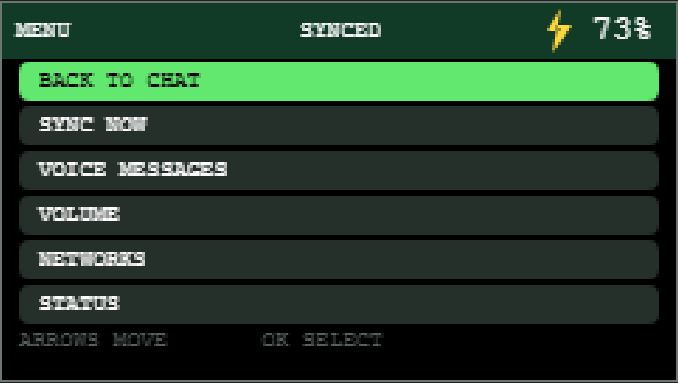
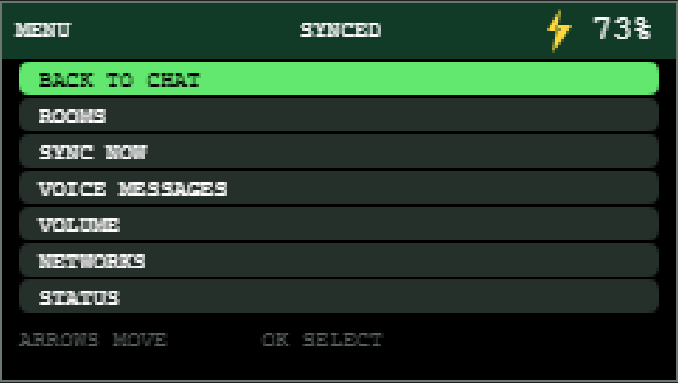
Generalize SupaChat group administration

Changed region(s): [[0.031, 0.2298, 0.9912, 0.8616]]

diff --git a/server/web/app.js b/server/web/app.js
@@ -21,6 +21,13 @@ const inviteGenerate = document.querySelector('#invite-generate');
 const roomSelect = document.querySelector('#room-select');
 const welcomeZone = document.querySelector('#welcome-zone');
 const welcomeClose = document.querySelector('#welcome-close');
+const newGroupForm = document.querySelector('#new-group-form');
+const groupState = document.querySelector('#group-state');
+const manageRoom = document.querySelector('#manage-room');
+const groupMembers = document.querySelector('#group-members');
+const existingUser = document.querySelector('#existing-user');
+const addMember = document.querySelector('#add-member');
+let adminGroups = []; let adminUsers = [];
 const welcomeRequested = new URLSearchParams(location.search).get('welcome') === '1';
 let messages = [];
 let currentUser = null;
@@ -246,9 +253,25 @@ function dismissWelcome() {
 }
 welcomeClose.addEventListener('click', dismissWelcome);
 welcomeZone.addEventListener('cancel', (event) => { event.preventDefault(); dismissWelcome(); });
-adminOpen.addEventListener('click', () => adminZone.showModal());
+async function loadAdminGroups(selected = manageRoom.value) {
+  const data = await api('api/admin/groups'); adminGroups = data.groups; adminUsers = data.users;
+  manageRoom.innerHTML = adminGroups.map((group) => `<option value="${escapeHtml(group.id)}">${escapeHtml(group.name)} (${group.member_count})</option>`).join('');
+  manageRoom.value = adminGroups.some((group) => group.id === selected) ? selected : adminGroups[0]?.id || '';
+  const group = adminGroups.find((item) => item.id === manageRoom.value);
+  groupMembers.innerHTML = group?.members.length ? group.members.map((member) => `<div class="group-member"><span>${escapeHtml(member.display_name)} <small>${escapeHtml(member.kind)}</small></span><button type="button" data-remove-user="${escapeHtml(member.id)}" ${member.id === currentUser.id ? 'disabled title="You cannot remove yourself"' : ''}>Remove</button></div>`).join('') : '<p class="empty-inline">No members.</p>';
+  const memberIds = new Set(group?.members.map((member) => member.id));
+  existingUser.innerHTML = adminUsers.filter((item) => !memberIds.has(item.id)).map((item) => `<option value="${escapeHtml(item.id)}">${escapeHtml(item.display_name)}</option>`).join('');
+  addMember.disabled = !existingUser.value;
+  inviteForm.elements.room_id.innerHTML = adminGroups.map((item) => `<option value="${escapeHtml(item.id)}">${escapeHtml(item.name)}</option>`).join('');
+  if (group) inviteForm.elements.room_id.value = group.id;
+}
+adminOpen.addEventListener('click', async () => { adminZone.showModal(); try { await loadAdminGroups(currentRoom); } catch { groupState.textContent = 'Could not load groups.'; } });
 adminClose.addEventListener('click', () => adminZone.close());
 adminZone.addEventListener('click', (event) => { if (event.target === adminZone) adminZone.close(); });
+manageRoom.addEventListener('change', () => loadAdminGroups(manageRoom.value));
+newGroupForm.addEventListener('submit', async (event) => { event.preventDefault(); groupState.textContent = 'Creating…'; try { const result = await api('api/admin/groups', {method:'POST',body:JSON.stringify({name:new FormData(newGroupForm).get('name')})}); newGroupForm.reset(); groupState.textContent = `${result.group.name} created.`; await loadAdminGroups(result.group.id); await refresh(); } catch(error) { groupState.textContent = error.message === 'group_exists' ? 'That group already exists.' : 'Could not create group.'; } });
+addMember.addEventListener('click', async () => { if (!existingUser.value) return; await api(`api/admin/groups/${encodeURIComponent(manageRoom.value)}/members`, {method:'POST',body:JSON.stringify({user_id:existingUser.value})}); await loadAdminGroups(manageRoom.value); });
+groupMembers.addEventListener('click', async (event) => { const button = event.target.closest('[data-remove-user]'); if (!button) return; button.disabled = true; try { await api(`api/admin/groups/${encodeURIComponent(manageRoom.value)}/members/${encodeURIComponent(button.dataset.removeUser)}`, {method:'DELETE'}); await loadAdminGroups(manageRoom.value); } catch { groupState.textContent = 'Could not remove that member.'; button.disabled = false; } });
 inviteForm.addEventListener('submit', async (event) => {
   event.preventDefault();
   const data = new FormData(inviteForm);

diff --git a/server/web/index.html b/server/web/index.html
@@ -6,6 +6,7 @@
   <title>SupaChat — Family</title>
   <link rel="stylesheet" href="app.css">
   <link rel="stylesheet" href="controls.css">
+  <link rel="stylesheet" href="admin.css">
 </head>
 <body>
   <div class="app-shell" data-vi-container="true">
@@ -34,12 +35,14 @@
       </aside>
     </div>
     <dialog id="admin-zone" class="admin-zone" aria-labelledby="admin-title">
-      <form id="invite-form" class="admin-card" data-vi-container="true">
+      <section class="admin-card" data-vi-container="true">
         <div class="admin-heading">
-          <div><p class="eyebrow">ADMIN ZONE</p><h2 id="admin-title">Invite someone</h2><p>Generate a one-use sign-up link. It expires in seven days.</p></div>
+          <div><p class="eyebrow">ADMIN ZONE</p><h2 id="admin-title">Groups</h2><p>Create rooms, manage their members, and invite someone directly into one.</p></div>
           <button id="admin-close" class="admin-close" type="button" aria-label="Close admin zone">×</button>
         </div>
-        <label for="invite-name">Name</label>
+        <form id="new-group-form" class="admin-section"><h3>New group</h3><div class="admin-inline"><input id="new-group-name" name="name" placeholder="Sunday Crew" required maxlength="60"><button type="submit">Create</button></div><p id="group-state" class="invite-state" role="status"></p></form>
+        <div class="admin-section"><h3>Manage group</h3><label for="manage-room">Group</label><select id="manage-room"></select><div id="group-members" class="group-members"></div><label for="existing-user">Add existing user</label><div class="admin-inline"><select id="existing-user"></select><button id="add-member" type="button">Add</button></div></div>
+        <form id="invite-form" class="admin-section"><h3>Invite new user</h3><p>One-use link · expires in seven days.</p><label for="invite-name">Name</label>
         <input id="invite-name" name="display_name" autocomplete="name" placeholder="Aunt Sarah" required maxlength="80">
         <label for="invite-username">Username</label>
         <input id="invite-username" name="username" autocomplete="username" placeholder="sarah" required maxlength="80">
@@ -53,8 +56,8 @@
           <a id="invite-link" href="#" target="_blank" rel="noreferrer"></a>
           <button id="invite-share" type="button">Share invite</button>
         </div>
-        <button id="invite-generate" class="invite-generate" type="submit">Generate one-time link</button>
-      </form>
+        <button id="invite-generate" class="invite-generate" type="submit">Generate one-time link</button></form>
+      </section>
     </dialog>
     <dialog id="welcome-zone" class="welcome-zone" aria-labelledby="welcome-title">
       <section class="welcome-card" data-vi-container="true">

diff --git a/server/web/admin.css b/server/web/admin.css
@@ -1,0 +1,1 @@
+.admin-card{max-height:min(760px,calc(100vh - 32px));overflow:auto}.admin-section{display:grid;gap:8px;padding:14px 0;border-top:1px solid var(--line)}.admin-section h3{margin:0}.admin-inline{display:flex;gap:8px}.admin-inline input,.admin-inline select{min-width:0;flex:1}.group-members{display:grid;gap:6px}.group-member{display:flex;align-items:center;justify-content:space-between;gap:10px;padding:8px 10px;background:#0f1411;border-radius:10px}.group-member small,.empty-inline{color:var(--muted)}.group-member button{padding:7px 10px}.admin-section input,.admin-section select{width:100%}@media(max-width:620px){.admin-card{width:calc(100vw - 20px);padding:16px}.admin-inline{align-items:stretch}.group-member{font-size:.9rem}}

diff --git a/firmware/src/main.cpp b/firmware/src/main.cpp
@@ -165,6 +165,7 @@ struct ChatLine {
   bool mine;
   bool label;
 };
+struct ChatRoom { String id; String name; };
 
 uint32_t participantColour(const String &authorId, const String &authorName = "") {
   String identity = authorId + " " + authorName; identity.toLowerCase();
@@ -174,7 +175,7 @@ uint32_t participantColour(const String &authorId, const String &authorName = ""
   return TFT_WHITE;
 }
 
-enum class ScreenMode { Chat, Menu, Volume, Walkie, Status, Networks, NetworkPassword };
+enum class ScreenMode { Chat, Menu, Rooms, Volume, Walkie, Status, Networks, NetworkPassword };
 
 Preferences preferences;
 M5Canvas uiCanvas(&M5Cardputer.Display);
@@ -182,6 +183,9 @@ WebSocketsClient walkieSocket;
 std::vector<WifiProfile> wifiProfiles;
 std::vector<ScannedNetwork> scannedNetworks;
 std::vector<ChatMessage> messages;
+std::vector<ChatRoom> rooms;
+String currentRoomId = "family";
+String currentRoomName = "Family";
 // Retained clips stream to microSD. The small fallback keeps voice usable
 // without a card while reserving heap for simultaneous HTTPS and WSS TLS.
 std::array<int16_t, kVoiceFallbackSamples> voiceSamples{};
@@ -219,6 +223,7 @@ bool localReplayActive = false;
 bool spacePttHeld = false;
 uint32_t spaceReleaseStartedAt = 0;
 bool walkieConnected = false;
+bool walkieInitialized = false;
 bool walkieGranted = false;
 bool audioPlaying = false;
 volatile bool messageNotificationPending = false;
@@ -230,6 +235,7 @@ volatile bool voiceDownloadActive = false;
 int64_t voicePlayingMessageId = 0;
 int voiceInboxSelection = 0;
 int menuSelection = 0;
+int roomSelection = 0;
 int networkSelection = 0;
 uint8_t volumeLevel = kDefaultVolumeLevel;
 int64_t lastServerId = 0;
@@ -905,6 +911,7 @@ bool uploadVoiceClip() {
   if (!http.begin(client, String(kApiBase) + "/api/voice")) return false;
   http.addHeader("Authorization", "Bearer " + deviceToken);
   http.addHeader("Content-Type", "application/octet-stream");
+  http.addHeader("X-Room-Id", currentRoomId);
   if (voiceClientId.isEmpty()) voiceClientId = nextClientId();
   http.addHeader("X-Client-Id", voiceClientId); http.addHeader("X-Sample-Rate", String(kVoiceSampleRate));
   int status = -1;
@@ -985,7 +992,7 @@ void sendQueuedMessages() {
     xSemaphoreGive(stateMutex);
     if (text.isEmpty()) continue;
     String response; int status = 0;
-    const String payload = "{\"client_id\":\"" + jsonEscape(clientId) + "\",\"body\":\"" + jsonEscape(text) + "\"}";
+    const String payload = "{\"client_id\":\"" + jsonEscape(clientId) + "\",\"body\":\"" + jsonEscape(text) + "\",\"room_id\":\"" + jsonEscape(currentRoomId) + "\"}";
     if (!requestJson("/api/messages", "POST", payload, response, status) || (status != 200 && status != 201)) continue;
     JsonDocument document; if (deserializeJson(document, response)) continue;
     xSemaphoreTake(stateMutex, portMAX_DELAY);
@@ -1000,10 +1007,21 @@ void postReadReceipt(int64_t messageId) {
 }
 
 void synchronize() {
+  String roomsResponse; int roomsStatus = 0;
+  if (requestJson("/api/rooms", "GET", "", roomsResponse, roomsStatus) && roomsStatus == 200) {
+    JsonDocument roomDocument;
+    if (!deserializeJson(roomDocument, roomsResponse)) {
+      rooms.clear();
+      for (JsonObjectConst object : roomDocument["rooms"].as<JsonArrayConst>()) rooms.push_back({String(object["id"] | ""), String(object["name"] | "Room")});
+      auto active = std::find_if(rooms.begin(), rooms.end(), [&](const ChatRoom &room) { return room.id == currentRoomId; });
+      if (active == rooms.end() && !rooms.empty()) { currentRoomId = rooms[0].id; currentRoomName = rooms[0].name; }
+      else if (active != rooms.end()) currentRoomName = active->name;
+    }
+  }
   sendQueuedMessages();
   String response; int status = 0;
   const String path = "/api/device/sync?after=" + String(lastServerId) + "&receipts_after=" + String(lastReceiptAt)
-      + "&limit=" + String(kSyncBatchLimit) + "&wait=0";
+      + "&limit=" + String(kSyncBatchLimit) + "&wait=0&room=" + currentRoomId;
   if (!requestJson(path, "GET", "", response, status)) {
     networkStatus = "SYNC IO " + String(status);
     Serial.printf("sync transport error=%d heap=%u\n", status, ESP.getFreeHeap()); renderDirty = true; return;
@@ -1064,13 +1082,13 @@ void networkTask(void *) {
 }
 
 void walkieTask(void *) {
-  bool initialized = false;
   for (;;) {
     if (WiFi.status() == WL_CONNECTED && timeKnown && initialSyncComplete) {
-      if (!initialized) {
+      if (!walkieInitialized) {
         walkieHeaders = "Authorization: Bearer " + deviceToken + "\r\n";
         walkieSocket.setExtraHeaders(walkieHeaders.c_str()); walkieSocket.onEvent(onWalkieEvent); walkieSocket.setReconnectInterval(2000);
-        walkieSocket.beginSSL(kApiHost, 443, "/supachat/walkie", kTlsFingerprint); initialized = true;
+        const String walkiePath = "/supachat/walkie?room=" + currentRoomId;
+        walkieSocket.beginSSL(kApiHost, 443, walkiePath.c_str(), kTlsFingerprint); walkieInitialized = true;
       }
       walkieSocket.loop();
     }
@@ -1096,7 +1114,7 @@ void drawHeader(const char *title) {
 }
 
 void drawChat() {
-  auto &display = uiCanvas; display.fillScreen(TFT_BLACK); drawHeader("FAMLY");
+  auto &display = uiCanvas; display.fillScreen(TFT_BLACK); drawHeader(currentRoomName.substring(0, 5).c_str());
   xSemaphoreTake(stateMutex, portMAX_DELAY);
   const int end = std::max(0, static_cast<int>(messages.size()) - static_cast<int>(historyOffset));
   const int first = std::max(0, end - 10);
@@ -1144,18 +1162,30 @@ void drawChat() {
   display.setTextColor(TFT_DARKGREY, TFT_BLACK); display.setCursor(198, 126); display.printf("%d/140", draft.length());
 }
 
-const char *kMenuItems[] = {"BACK TO CHAT", "SYNC NOW", "VOICE MESSAGES", "VOLUME", "NETWORKS", "STATUS"};
+const char *kMenuItems[] = {"BACK TO CHAT", "ROOMS", "SYNC NOW", "VOICE MESSAGES", "VOLUME", "NETWORKS", "STATUS"};
 void drawMenu() {
   auto &display = uiCanvas; display.fillScreen(TFT_BLACK); drawHeader("MENU");
   display.setTextSize(1);
-  for (int index = 0; index < 6; index++) {
-    const int y = 21 + index * 16; const bool selected = index == menuSelection;
-    display.fillRoundRect(6, y, 228, 14, 4, selected ? TFT_GREEN : TFT_DARKGREY);
+  for (int index = 0; index < 7; index++) {
+    const int y = 21 + index * 13; const bool selected = index == menuSelection;
+    display.fillRoundRect(6, y, 228, 12, 4, selected ? TFT_GREEN : TFT_DARKGREY);
     display.setTextColor(selected ? TFT_BLACK : TFT_WHITE, selected ? TFT_GREEN : TFT_DARKGREY);
     display.setCursor(13, y + 4); display.print(kMenuItems[index]);
   }
   display.setTextSize(1); display.setTextColor(TFT_DARKGREY, TFT_BLACK); display.setCursor(6, 117);
   display.print("ARROWS MOVE       OK SELECT");
+}
+
+void drawRooms() {
+  auto &display = uiCanvas; display.fillScreen(TFT_BLACK); drawHeader("ROOMS"); display.setTextSize(1);
+  const int start = std::max(0, roomSelection - 5);
+  for (int index = start; index < static_cast<int>(rooms.size()) && index < start + 6; index++) {
+    const int y = 22 + (index - start) * 15; const bool selected = index == roomSelection;
+    display.fillRoundRect(6, y, 228, 13, 3, selected ? TFT_GREEN : TFT_DARKGREY);
+    display.setTextColor(selected ? TFT_BLACK : TFT_WHITE, selected ? TFT_GREEN : TFT_DARKGREY); display.setCursor(12, y + 3);
+    display.print(rooms[index].name.substring(0, 34));
+  }
+  display.setTextColor(TFT_DARKGREY, TFT_BLACK); display.setCursor(6, 123); display.print("UP/DOWN CHOOSE    ENTER OPEN");
 }
 
 void drawWalkie() {
@@ -1238,7 +1268,7 @@ void drawNetworkPassword() {
 }
 
 void render() {
-  if (screenMode == ScreenMode::Chat) drawChat(); else if (screenMode == ScreenMode::Menu) drawMenu();
+  if (screenMode == ScreenMode::Chat) drawChat(); else if (screenMode == ScreenMode::Menu) drawMenu(); else if (screenMode == ScreenMode::Rooms) drawRooms();
   else if (screenMode == ScreenMode::Volume) drawVolume();
   else if (screenMode == ScreenMode::Walkie) drawWalkie();
   else if (screenMode == ScreenMode::Status) drawStatus();
@@ -1320,10 +1350,11 @@ void joinSelectedNetwork() {
 
 void openSelectedMenuItem() {
   if (menuSelection == 0) screenMode = ScreenMode::Chat;
-  else if (menuSelection == 1) { syncOverride = true; networkStatus = "SYNC REQUESTED"; screenMode = ScreenMode::Chat; }
-  else if (menuSelection == 2) { screenMode = ScreenMode::Walkie; walkieStatus = "READY"; }
-  else if (menuSelection == 3) screenMode = ScreenMode::Volume;
-  else if (menuSelection == 4) { screenMode = ScreenMode::Networks; scanForNetworks(); }
+  else if (menuSelection == 1) screenMode = ScreenMode::Rooms;
+  else if (menuSelection == 2) { syncOverride = true; networkStatus = "SYNC REQUESTED"; screenMode = ScreenMode::Chat; }
+  else if (menuSelection == 3) { screenMode = ScreenMode::Walkie; walkieStatus = "READY"; }
+  else if (menuSelection == 4) screenMode = ScreenMode::Volume;
+  else if (menuSelection == 5) { screenMode = ScreenMode::Networks; scanForNetworks(); }
   else screenMode = ScreenMode::Status;
   renderDirty = true;
 }
@@ -1339,11 +1370,18 @@ void handleKeyboard() {
   const bool goLeft = navigationChord && navLeft();
   const bool goRight = navigationChord && navRight();
   if (screenMode == ScreenMode::Menu) {
-    if (goUp) { menuSelection = (menuSelection + 5) % 6; playNextTone(); }
-    else if (goDown) { menuSelection = (menuSelection + 1) % 6; playNextTone(); }
+    if (goUp) { menuSelection = (menuSelection + 6) % 7; playNextTone(); }
+    else if (goDown) { menuSelection = (menuSelection + 1) % 7; playNextTone(); }
     else if (goLeft) { screenMode = ScreenMode::Chat; playNextTone(); }
     else if (goRight || keys.enter) { openSelectedMenuItem(); playNextTone(); }
     renderDirty = true; return;
+  }
+  if (screenMode == ScreenMode::Rooms) {
+    if (goUp && roomSelection > 0) roomSelection--;
+    else if (goDown && roomSelection + 1 < static_cast<int>(rooms.size())) roomSelection++;
+    else if (goLeft) screenMode = ScreenMode::Menu;
+    else if ((goRight || keys.enter) && !rooms.empty()) { currentRoomId=rooms[roomSelection].id; currentRoomName=rooms[roomSelection].name; messages.clear(); lastServerId=0; lastReceiptAt=0; historyOffset=0; screenMode=ScreenMode::Chat; syncOverride=true; walkieSocket.disconnect(); walkieInitialized=false; }
+    playNextTone(); renderDirty=true; return;
   }
   if (screenMode == ScreenMode::Volume) {
     if (goLeft && volumeLevel > 0) { volumeLevel--; saveVolume(); playNextTone(); }
